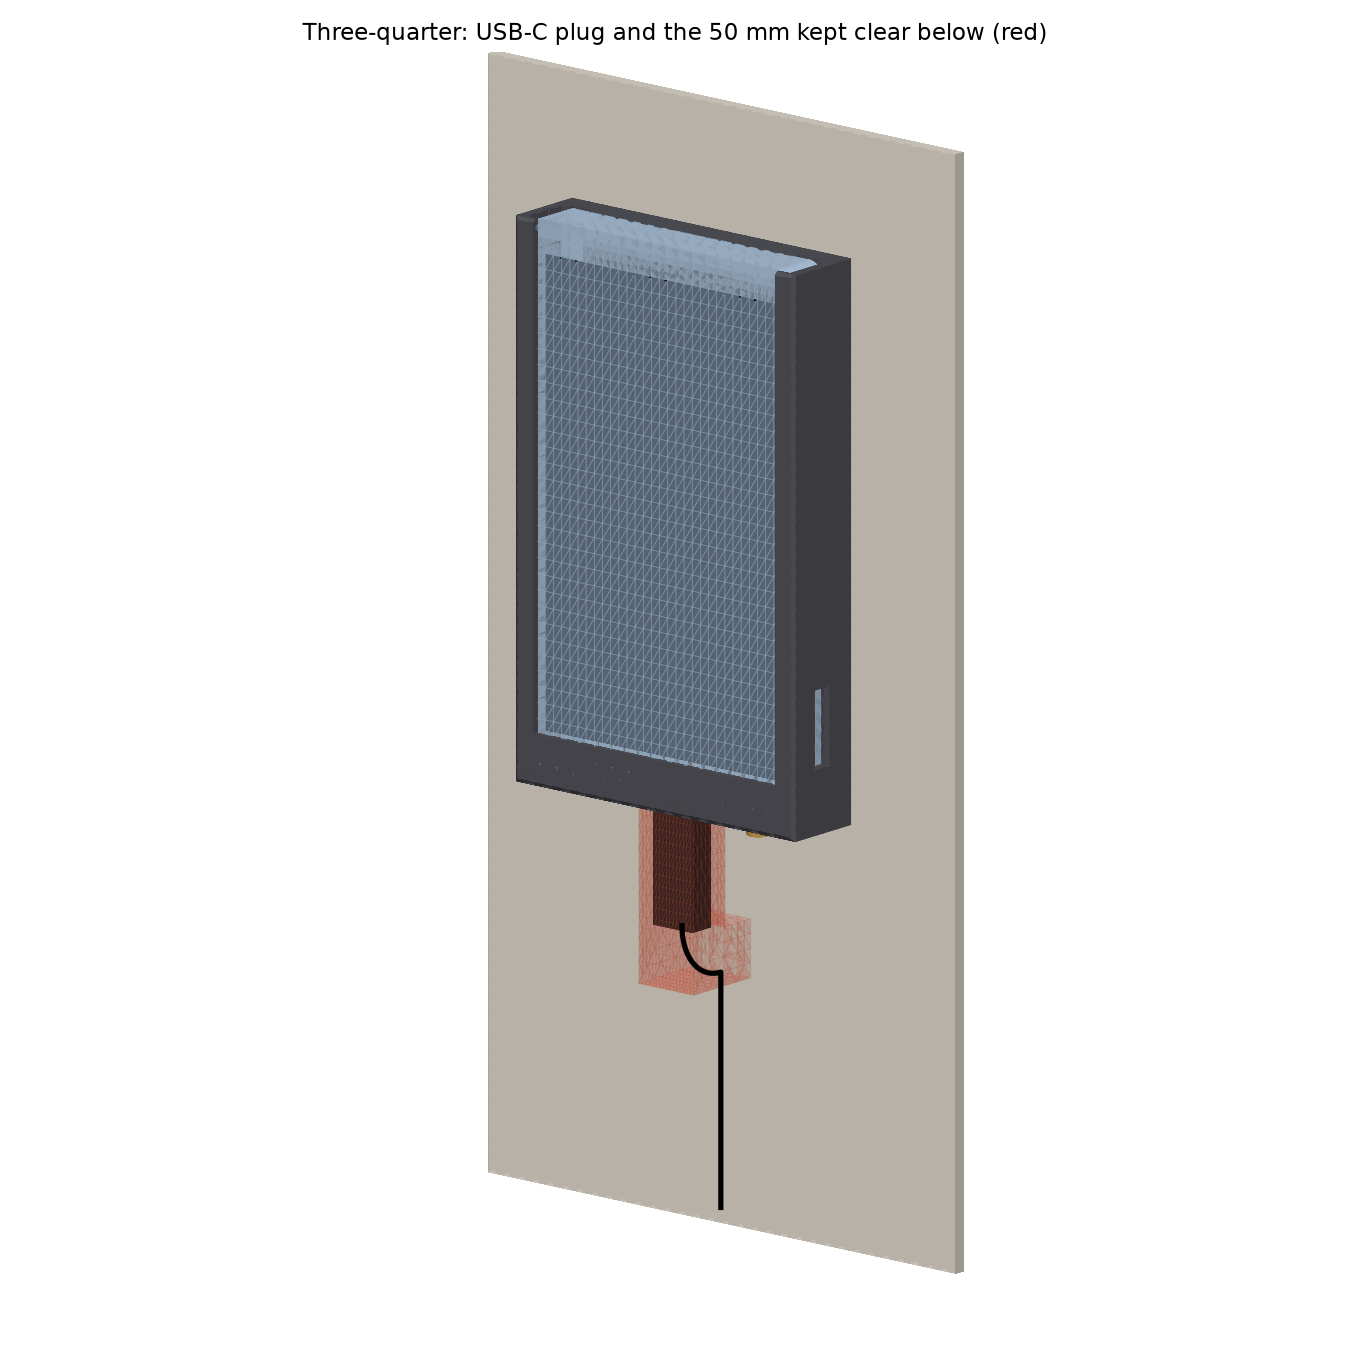
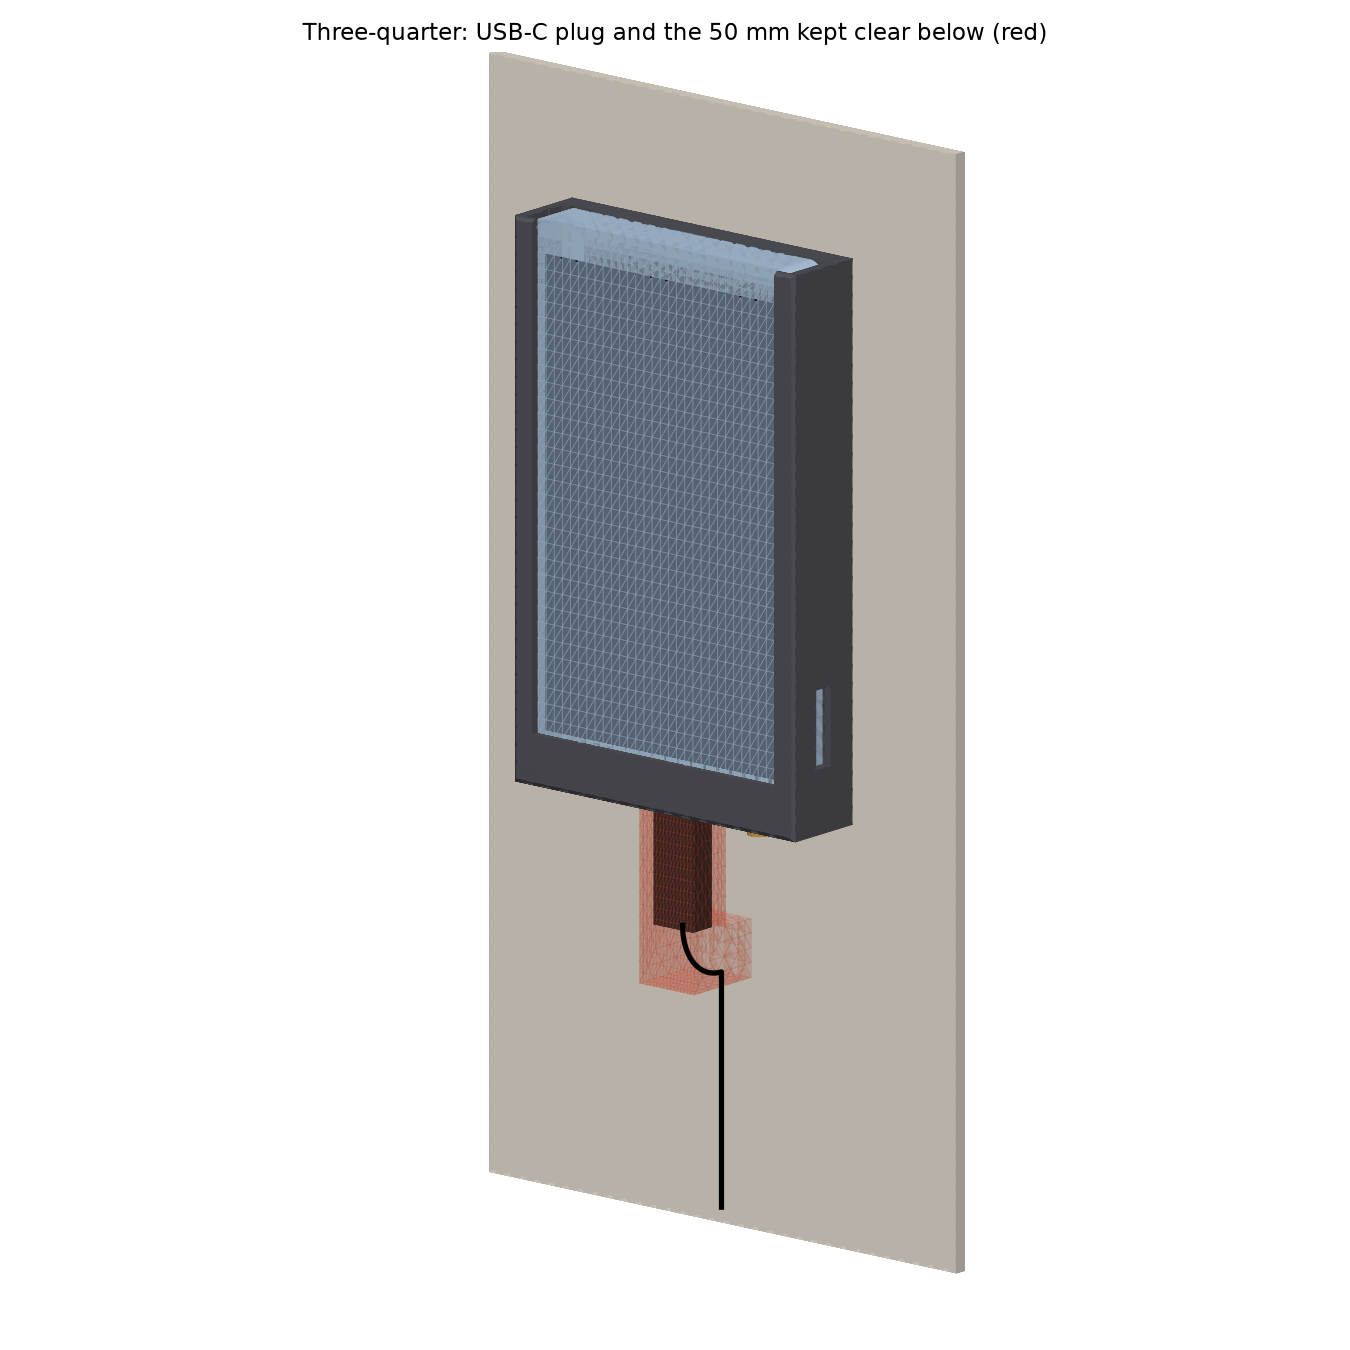
fix: COM-534 loosen the case pocket and shorten coupon 2 after its second print

Changed region(s): [[0.4044, 0.1867, 0.5911, 0.56], [0.4667, 0.6222, 0.5289, 0.6844]]

diff --git a/apps/basement-lights-dashboard/hardware/wall-mount/mount/params.py b/apps/basement-lights-dashboard/hardware/wall-mount/mount/params.py
@@ -62,11 +62,14 @@ PLUG_BEND_CLEAR = 50.0               # DESIGN: kept clear below the case's botto
 PLUG_BEND_MARGIN = 2.0               # DESIGN: extra width each side of that clear zone
 
 # --- Cradle (DESIGN, black PLA) ------------------------------------------------------------------
-CLEAR_SIDE = 0.4                     # MEASURED: case to side walls, per side; coupon 1 in black PLA fit well
+CLEAR_SIDE = 0.6                     # DESIGN: case to side walls, per side. 0.4 fit coupon 1's 4 mm frame, but on
+                                     #   coupon 2's deeper walls it was too tight to slide; reprint coupon 2 to confirm
 CLEAR_BACK = 0.3                     # DESIGN: case back to the cradle back
-LIP_GAP = 0.5                        # MEASURED: lip's back face to the case face. Coupon 2 at 0.15 (0.45 front to
-                                     #   back with CLEAR_BACK) was too tight to slide the case in: the lips' down-
-                                     #   facing overhang sags into the pocket. Widened here so nothing else moves
+LIP_GAP = 1.0                        # DESIGN: lip's back face to the case face. Coupon 2 at 0.15 and again at 0.5
+                                     #   (0.45, then 0.8 front to back with CLEAR_BACK) was too tight to slide the
+                                     #   case in: the lips' down-facing overhangs sag into the pocket. Only the
+                                     #   lips move, so the heads, plug opening and TF window stay where coupon 2
+                                     #   checked them; reprint coupon 2 to confirm
 LIP_T = 1.5                          # MEASURED: lip thickness; coupon 1's lips (bottom span included) printed
                                      #   clean with no supports
 LIP_WINDOW_MARGIN = 0.5              # MEASURED: lips stop this far outside the case window; on coupon 1 they sit
@@ -144,9 +147,13 @@ D_BACK0 = PLATE_T + BACK_GAP                   # 4.15: cradle back face (wall si
 D_BACK1 = D_BACK0 + BACK_T                     # 11.15: cradle back's inner face
 D_CASE_BACK = D_BACK1 + CLEAR_BACK             # 11.45
 D_CASE_FRONT = D_CASE_BACK + CASE_T            # 24.0
-D_LIP0 = D_CASE_FRONT + LIP_GAP                # 24.5
-D_FRONT = D_LIP0 + LIP_T                       # 26.0: depth off the wall
+D_LIP0 = D_CASE_FRONT + LIP_GAP                # 25.0
+D_FRONT = D_LIP0 + LIP_T                       # 26.5: depth off the wall
 D_GROOVE_FLOOR = D_RAIL_TIP + DOVE_TIP_CLEAR   # 8.4
+
+# --- Test coupons ---------------------------------------------------------------------------------
+COUPON2_TOP = 25.0                   # DESIGN: coupon 2's height: floor, plug opening, lower head channels, insert,
+                                     #   the bottom lip and the lower TF window, tall enough to test the slide
 
 # --- Derived plan ---------------------------------------------------------------------------------
 Z_CASE0 = FLOOR_T                              # the case stands on the floor

diff --git a/apps/basement-lights-dashboard/hardware/wall-mount/mount/cradle.py b/apps/basement-lights-dashboard/hardware/wall-mount/mount/cradle.py
@@ -96,7 +96,8 @@ def fit_frame(cradle, depth=4.0):
     return wall_side_down(cradle & box(-100, 100, p.D_FRONT - depth, p.D_FRONT + 1, -10, 300), p.D_FRONT - depth)
 
 
-def bottom_slice(cradle, top=40.0):
-    """Coupon 2: the cradle's bottom `top` mm (floor, plug opening, TF window, detent insert), as printed."""
+def bottom_slice(cradle, top=p.COUPON2_TOP):
+    """Coupon 2: the cradle's bottom `top` mm (floor, plug opening, lower head channels, lower TF window,
+    detent insert), as printed."""
     return cradle_print_pose(cradle & box(-100, 100, -1, 60, -10, top))
 

diff --git a/apps/basement-lights-dashboard/hardware/wall-mount/README.md b/apps/basement-lights-dashboard/hardware/wall-mount/README.md
@@ -12,7 +12,7 @@ A 3D-printable wall mount for [`apps/basement-lights-dashboard`](../../README.md
 
 Left and right are as seen from the front. The panel hangs portrait with its USB-C at the bottom, which is what the firmware's default `screen_rotation: "90"` already draws upright.
 
-- **Size.** The cradle is 89.5 × 144.2 mm, and its face stands 26.0 mm off the wall. The plate behind it is 52 × 92 mm.
+- **Size.** The cradle is 89.9 × 144.2 mm, and its face stands 26.5 mm off the wall. The plate behind it is 52 × 92 mm.
 - **Cradle (black PLA).** The case slides in from the open top and stands on a 4 mm floor. There's no top retention: gravity, the floor and the side lips hold it.
   - **Lips.** 1.5 mm lips cover the acrylic border down both sides and across the bottom. Each stops 0.5 mm outside the case's 121.1 × 76.7 window, so the whole screen and its 108 × 64.8 active area stay clear. The top border is left open.
   - **Back.** A flat 7 mm back. The case's four M2.5 screw heads stand 1.14 mm proud of its back plate, so they ride down two channels in the back's inner face as the case slides in. A 0.6 mm relief in the left wall does the same for the LCD flex tab, which pokes 0.35 mm out of the case's side. Vent slots in the back sit above the plate, so they open onto the 4 mm gap behind the cradle rather than onto the plate.
@@ -79,7 +79,7 @@ Every dimension is a named constant in [`mount/params.py`](mount/params.py), tag
 | Wall screws | #6 heads 0.5 mm below the rail face; Ø7.4 countersink in the 17.5 mm rail |
 | Wall thickness | walls 2.4, floor 4, back 2.75 in front of the groove, plate 4, ear 4, lips 1.5; 1.8 at the flex relief |
 | Every part fits the P1S bed, flat | cradle 90 × 144 × 21.5, plate 52 × 92 × 12 |
-| Depth off the wall | 26.0 mm (limit 27) |
+| Depth off the wall | 26.5 mm (limit 27) |
 
 ## Print the test coupons first
 
@@ -87,8 +87,8 @@ The clearances are first guesses. Print these three before the full parts (black
 
 | Coupon | What it tests | Approx. time | What to report |
 |---|---|---|---|
-| `coupon-1-fit-frame` ![](docs/coupon-1.png) | The cradle's front 4 mm, in the cradle's own print pose, so the lips print as 3.5 mm overhangs exactly as on the cradle. Turn it over onto the case. | 20 min, 8 g | Side-to-side play (`CLEAR_SIDE`, now 0.4 per side); whether the lips sit on the border and clear the window; how the lips printed: the side lips are 3.5 mm overhangs, and the bottom lip is an 85 × 9 mm span over the open pocket (anchored on the floor's edge and both walls), so it's the likelier one to sag. **Result (black PLA): good.** The side play is right, the lips sit on the border clear of the window, and every lip printed clean with no supports, the bottom span included. `CLEAR_SIDE`, `LIP_WINDOW_MARGIN` and `LIP_T` are now `MEASURED`. |
-| `coupon-2-bottom-slice` ![](docs/coupon-2.png) | The cradle's bottom 40 mm: floor, plug opening, back with its head channels, TF window, detent insert hole. Push an M3 insert into the hole. Stand the case in it and plug in the real USB-C cable. | 1 h, about 30 g | Whether the case seats on the floor (the heads in their channels); whether the cable's overmold passes the 13.5 × 8 opening and seats in the port; whether the TF card can be pushed and pulled through the window; how the insert went in. **First print (black PLA, `LIP_GAP` 0.15): the screw-head channels and the USB-C opening are good, but the case was slightly too tight front to back to slide in.** The pocket had 0.45 mm front to back (0.3 behind the case, 0.15 under the lips). The lips' undersides print as down-facing overhangs and sag into the pocket, so `LIP_GAP` is now 0.5 (0.8 mm in all). Only the lips move, 0.35 mm further out, so the heads, the USB-C opening and the TF window stay where coupon 2 checked them. Reprint coupon 2 to confirm. |
+| `coupon-1-fit-frame` ![](docs/coupon-1.png) | The cradle's front 4 mm, in the cradle's own print pose, so the lips print as 3.5 mm overhangs exactly as on the cradle. Turn it over onto the case. | 20 min, 8 g | Side-to-side play (`CLEAR_SIDE`, 0.4 per side when printed); whether the lips sit on the border and clear the window; how the lips printed: the side lips are 3.5 mm overhangs, and the bottom lip is an 85 × 9 mm span over the open pocket (anchored on the floor's edge and both walls), so it's the likelier one to sag. **Result (black PLA): good.** The side play is right, the lips sit on the border clear of the window, and every lip printed clean with no supports, the bottom span included. `LIP_WINDOW_MARGIN` and `LIP_T` are now `MEASURED`. (`CLEAR_SIDE` was too, until coupon 2's deeper walls proved 0.4 too tight to slide the case in: see below.) |
+| `coupon-2-bottom-slice` ![](docs/coupon-2.png) | The cradle's bottom 25 mm (`COUPON2_TOP`; the first two prints were 40 mm): floor, plug opening, back with the lower head channels, bottom lip, the lower part of the TF window, detent insert hole. Push an M3 insert into the hole. Stand the case in it and plug in the real USB-C cable. | About 40 min, 20 g | Whether the case seats on the floor (the heads in their channels); whether the cable's overmold passes the 13.5 × 8 opening and seats in the port; whether the TF card can be pushed and pulled through the window; how the insert went in. **First print (black PLA, `LIP_GAP` 0.15): the screw-head channels and the USB-C opening are good, but the case was slightly too tight front to back to slide in.** The pocket had 0.45 mm front to back (0.3 behind the case, 0.15 under the lips). The lips' undersides print as down-facing overhangs and sag into the pocket, so `LIP_GAP` is now 0.5 (0.8 mm in all). Only the lips move, 0.35 mm further out, so the heads, the USB-C opening and the TF window stay where coupon 2 checked them. **Second print (`LIP_GAP` 0.5): still too tight front to back, and side to side as well.** `LIP_GAP` is now 1.0 (1.3 mm front to back in all) and `CLEAR_SIDE` 0.6 per side (1.2 mm across), both `DESIGN` until this coupon confirms them. The case's place in the cradle doesn't move, so the head channels and the USB-C opening are where coupon 2 confirmed them. Reprint coupon 2 to confirm. |
 | `coupon-3-dovetail` ![](docs/coupon-3.png) | One groove block, printed like the cradle, and three rail blocks, printed like the plate. The rails are narrowed by 0.10 / 0.15 / 0.20 mm per flank, marked with 1 / 2 / 3 notches. | 45 min, about 20 g | Which rail slides in freely without rocking. That value becomes `SLIDE_CLEAR`. **Result (black PLA): all three slide; the tightest, 0.10 (1 notch), slides easily with very little side play and no tilt or rocking.** `SLIDE_CLEAR` is now 0.10, `MEASURED`. |
 
 ## Parts to print
